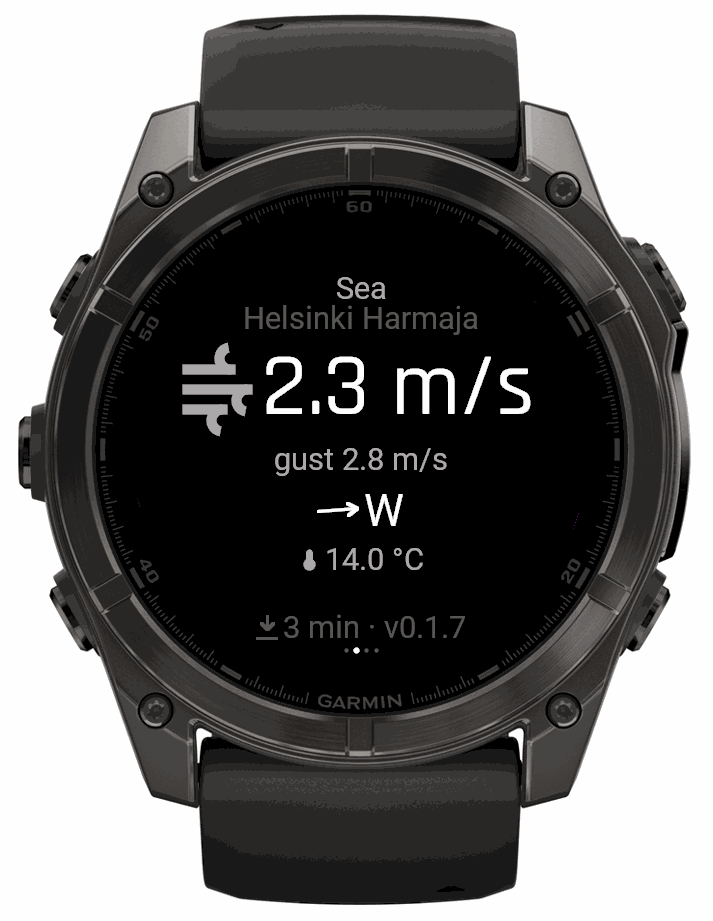
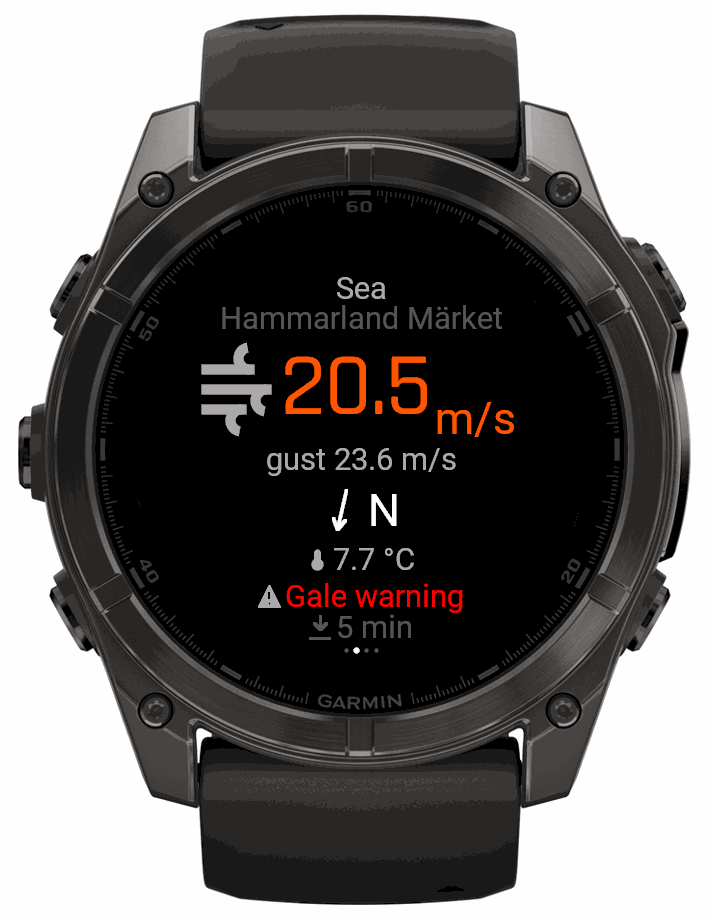
weatherapp.tallimedia.com: Sea and Waves screenshots now show a live warning
raw-pg2.png / raw-pg3.png (the "Every screen" grid) and pg2.png / pg3.png
(unused by the page today, kept in sync anyway) swapped from a quiet default
reading to Hammarland Märket's live Gale warning / Rough seas — same capture
used in the Connect IQ store gallery, tallimedia.com's card and the hero/cover
art. Alt text updated to say so, and the cache-busting ?v= bumped on the two
referenced images so Cloudflare doesn't keep serving the old ones.

Changed region(s): [[0.2468, 0.3344, 0.7405, 0.6992]]

diff --git a/app/public/index.html b/app/public/index.html
@@ -339,9 +339,9 @@
     <div style="display:grid;grid-template-columns:repeat(auto-fit,minmax(160px,1fr));gap:24px">
       <figure style="margin:0"><div class="shot-disc"><img src="/public/shots/raw-pg1.png?v=1" alt="Land page"></div>
         <figcaption class="shot-cap" id="cap-land"></figcaption></figure>
-      <figure style="margin:0"><div class="shot-disc"><img src="/public/shots/raw-pg2.png?v=1" alt="Sea page"></div>
+      <figure style="margin:0"><div class="shot-disc"><img src="/public/shots/raw-pg2.png?v=2" alt="Sea page with a live wind warning"></div>
         <figcaption class="shot-cap" id="cap-sea"></figcaption></figure>
-      <figure style="margin:0"><div class="shot-disc"><img src="/public/shots/raw-pg3.png?v=1" alt="Waves page"></div>
+      <figure style="margin:0"><div class="shot-disc"><img src="/public/shots/raw-pg3.png?v=2" alt="Waves page with a live wave warning"></div>
         <figcaption class="shot-cap" id="cap-waves"></figcaption></figure>
       <figure style="margin:0"><div class="shot-disc"><img src="/public/shots/raw-glance.png?v=1" alt="Glance"></div>
         <figcaption class="shot-cap" id="cap-glance"></figcaption></figure>
